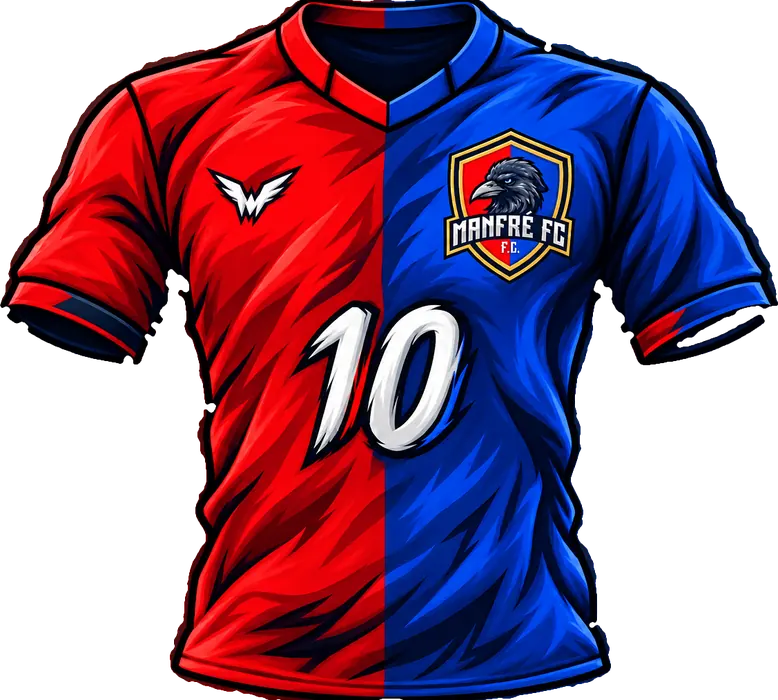
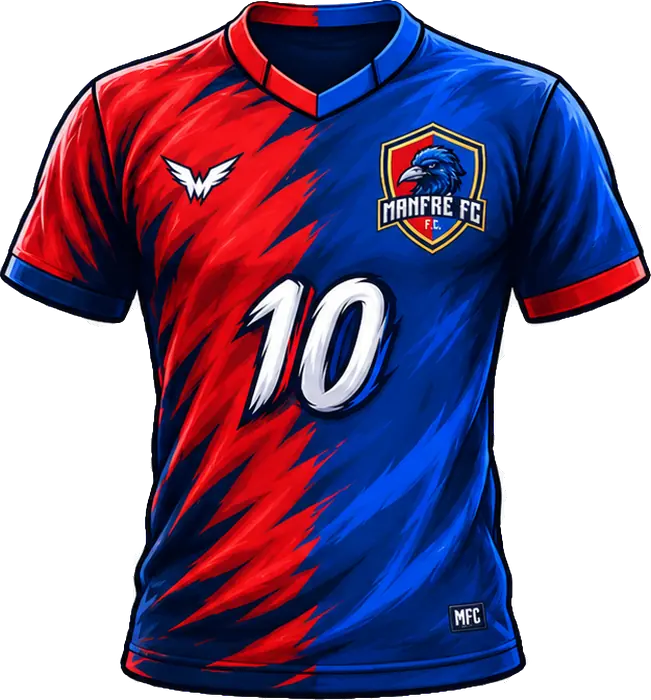
Manfré FC: a gralha agora e AZUL (2a arte do dono, mesmo dia)
O Diego: "o usuário dono do Manfré quis a gralha na cor azul.. aí teremos q
alterar os itens p por ela no azul igual na foto". Trocados escudo, mascote e
camisa; manto remedido na camisa nova: vermelho #EC121C + azul #0135A3.

- escudo 294x360 · 28,5 KB (teto 30) · gralha 256x440 · 32,3 KB (teto 45)
- 61 KB dos 75 permitidos por batismo
- camisa 651x700 · 55 KB em scripts/kits/ (é do POST, fora do bundle)

O ARQUIVO TINHA DUAS CILADAS, e as duas soluções valem pra qualquer arte assim:

1. Fundo era xadrez QUASE BRANCO pintado dentro da imagem (tons medidos: 246 e
   254). Cortar por COR comeu as letras de "MANFRÉ FC", o número 10 e os tênis
   na 1ª tentativa — o mesmo erro do Theuzudo em 21/08. A saída foi cortar pela
   GRADE: achei o passo do xadrez (26,45px, erro médio 0,92) e só apago região
   que bate com a grade em >=85% do MIOLO. Medir o miolo importa: com a
   casquinha de 2px o vão entre as pernas dava 0,79 e escapava. Fundo bate
   ~100%; branco liso de desenho bate 0,2 a 0,68, porque só calha nas casas do
   tom igual.

2. HALO BRANCO invisível: o serrilhado do contorno preto contra o fundo
   quase-branco deixa uma casquinha clara que não aparece sobre branco e fica
   feia sobre creme e verde. Raspada por cor só na BEIRADA — dentro do desenho
   não existe branco encostado na borda.

Conferido sobre CREME e sobre VERDE, e nos tamanhos REAIS de tela (34px, 78px e
176px): letras, número 10, tênis e "MFC" do calção inteiros, sem franja.
[…]

diff --git a/src/escalacao/escudos.tsx b/src/escalacao/escudos.tsx
@@ -561,13 +561,14 @@ const theuzudoEscudoRender = (size: number) => (
   <img src={theuzudoEscudoImg} height={size} width={Math.round(size * 293 / 360)} alt="Theuzudo FC" style={{ flex: 'none', display: 'block', objectFit: 'contain' }} />
 )
 // 🐦⬛ Manfré FC — a gralha-azul (coração Paraná Clube) no escudo vermelho e
-// azul. 291x360 no arquivo. 30/08: esta arte APOSENTA o escudo que era SVG
+// azul. 294x360 no arquivo. 30/08 (2ª arte, no mesmo dia): o DONO pediu a
+// gralha AZUL, não escura — é ela que está aqui. 30/08: esta arte APOSENTA o escudo que era SVG
 // desenhado à mão aqui dentro (o de 09/08) — vale a regra de peso do batismo:
 // arte nasce .webp FORA do bundle, então só desce pra quem cruza com o clube.
 // Recorte conferido sobre CREME e sobre VERDE (nunca sobre branco): as letras
 // brancas de "MANFRÉ FC" e o contorno preto ficaram inteiros.
 const manfreEscudoRender = (size: number) => (
-  <img src={manfreEscudoImg} height={size} width={Math.round(size * 291 / 360)} alt="Manfré FC" style={{ flex: 'none', display: 'block', objectFit: 'contain' }} />
+  <img src={manfreEscudoImg} height={size} width={Math.round(size * 294 / 360)} alt="Manfré FC" style={{ flex: 'none', display: 'block', objectFit: 'contain' }} />
 )
 const nataEscudoRender = (size: number) => (
   <img src={nataEscudoImg} height={size} width={Math.round(size * 312 / 360)} alt="Nata de SP" style={{ flex: 'none', display: 'block', objectFit: 'contain' }} />

diff --git a/src/escalacao/mascotes.tsx b/src/escalacao/mascotes.tsx
@@ -598,13 +598,15 @@ export const MASCOTES: Record<string, ReactNode> = {
       </g>
     </svg>
   ),
-  // 🐦⬛ Manfré FC — a GRALHA de braço cruzado (coração Paraná Clube), camisa
-  // metade vermelha metade azul. Arte própria do dono (webp, fora do bundle).
-  // mascote_key = "manfre_gralha". 239x440 no arquivo: a 176px de altura fica no
+  // 🐦⬛ Manfré FC — a GRALHA AZUL de braço cruzado (coração Paraná Clube),
+  // camisa metade vermelha metade azul. Arte própria do dono (webp, fora do
+  // bundle). O dono pediu a gralha AZUL — a 1ª arte, do mesmo dia 30/08, tinha
+  // o bicho escuro; esta é a que vale.
+  // mascote_key = "manfre_gralha". 256x440 no arquivo: a 176px de altura fica no
   // tamanho certo, sem esticar. 30/08: APOSENTA a gralha que era SVG desenhado
   // à mão aqui dentro (a de 09/08).
   manfre_gralha: (
-    <img src={manfreMascoteImg} height={176} width={Math.round(176 * 239 / 440)} alt="A Gralha — Manfré FC" style={{ flex: 'none', display: 'block', objectFit: 'contain' }} />
+    <img src={manfreMascoteImg} height={176} width={Math.round(176 * 256 / 440)} alt="A Gralha — Manfré FC" style={{ flex: 'none', display: 'block', objectFit: 'contain' }} />
   ),
   // 💇♂ o boleiro do MOICANO (Neymarzetti — Diego, aprovado 09/08 v5): perfil
   // driblando, crista preto+loiro, camisa 11, meião branco, bota amarela.

diff --git a/src/escalacao/manto.ts b/src/escalacao/manto.ts
@@ -19,7 +19,7 @@ export const MANTO_CONTAS: Record<string, [string, string]> = {
   'gabrielnegreirosamaral99@hotmail.com': ['#E00000', '#0C0C0C'], // 🐶 São Luiz FC — vermelho e preto, MEDIDOS na arte do dono (branco é a 3ª cor, em MANTO_TRI) (21/08)
   'igormarquesn99@gmail.com': ['#AE1A13', '#F3B212'], // 🌽 Milhaça FC — vermelho e amarelo, MEDIDOS na camisa que o dono mandou (24/08)
   'lluchmarcel81@gmail.com': ['#C00018', '#111111'], // 🏠 Esqueceram do Lluch FC — vermelho e preto, MEDIDOS na camisa que o dono mandou (28/08). ❤ São Paulo (por isso o manto é TRICOLOR listrado; o branco é a 3ª cor, em MANTO_TRI)
-  'danielmanfre5@gmail.com': ['#FA050D', '#0144E4'], // 🐦⬛ Manfré FC — vermelho e azul, MEDIDOS na camisa que o dono mandou (30/08). ❤ Paraná Clube (de onde vem a gralha-azul)
+  'danielmanfre5@gmail.com': ['#EC121C', '#0135A3'], // 🐦⬛ Manfré FC — vermelho e azul, MEDIDOS na 2ª camisa que o dono mandou (30/08, a da gralha AZUL). ❤ Paraná Clube (de onde vem a gralha-azul)
   'agrostinho88@gmail.com': ['#0C2460', '#FFFFFF'], // 🐺 Papão United Madrid — azul-marinho e branco, MEDIDOS na camisa que o dono mandou (23/08). ❤ Paysandu (o "Papão da Curuzu", de onde vem o nome do clube)
 }
 

diff --git a/docs/pendencias.md b/docs/pendencias.md
@@ -50,6 +50,29 @@ sentido pra quem já pagou. Resposta dele, seca: *"Só sem ser lenda q vê"*.
 **Fica como está — não propor de novo.** A linha já estava no ar pra todo jogador
 que não é Lenda, embaixo do 🔄 Atualizar lista, em Salas Abertas.
 
+## 🐦⬛ MANFRÉ FC: 2ª arte no mesmo dia — a gralha AZUL (30/08)
+O Diego: *"o usuário dono do Manfré quis a gralha na cor azul"*. A 1ª arte do
+dia tinha o bicho escuro; a 2ª tem ele AZUL. Trocados escudo, mascote e camisa,
+e o manto remedido na camisa nova: vermelho `#EC121C` + azul `#0135A3`.
+
+**Armadilha nova deste arquivo, e a saída (vale pra qualquer arte assim):** o
+fundo era um xadrez QUASE BRANCO (dois tons medidos: 246 e 254) pintado dentro
+da imagem. Duas ciladas de uma vez:
+1. **O branco do DESENHO some junto** se o corte for por cor — foi o que
+   aconteceu na 1ª tentativa: comeu as letras de "MANFRÉ FC", o número 10 e os
+   tênis. É o erro do Theuzudo (21/08) outra vez.
+   **Saída:** cortar pela GRADE, não pela cor. Achei o passo do xadrez
+   (26,45px, erro médio de 0,92) e só apago região que bate com a grade em
+   ≥85% do MIOLO (sem a casquinha de 2px, senão o serrilhado da borda dilui a
+   conta — o vão entre as pernas dava 0,79 e escapava). Fundo bate ~100%;
+   branco liso de desenho bate ~0,2 a 0,68, porque só calha nas casas do tom
+   igual. Nunca mais come letra branca.
+2. **HALO BRANCO invisível no branco.** O serrilhado do contorno preto contra o
+   fundo quase-branco deixa uma casquinha clara que NÃO aparece sobre branco e
+   aparece feia sobre creme/verde. **Saída:** raspar por cor só na BEIRADA
+   (4 passadas de 1px), porque dentro do desenho não existe branco encostado na
+   borda — a borda é sempre contorno preto ou o dourado do escudo.
+
 ## 🐦⬛ MANFRÉ FC ganhou arte nova (30/08) — ✔ NO AR
 O dono (danielmanfre5) mandou a arte, e ela APOSENTOU o escudo e a gralha que
 eram SVG desenhados à mão dentro do código (os de 09/08). Entregue: escudo
